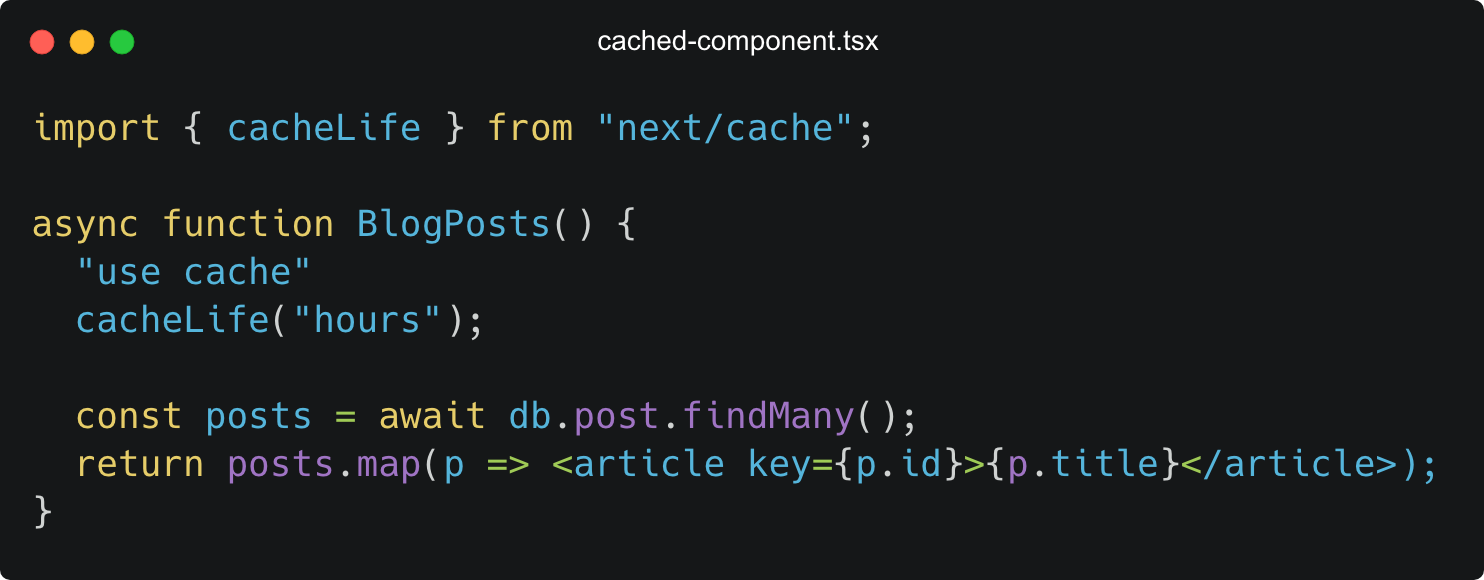
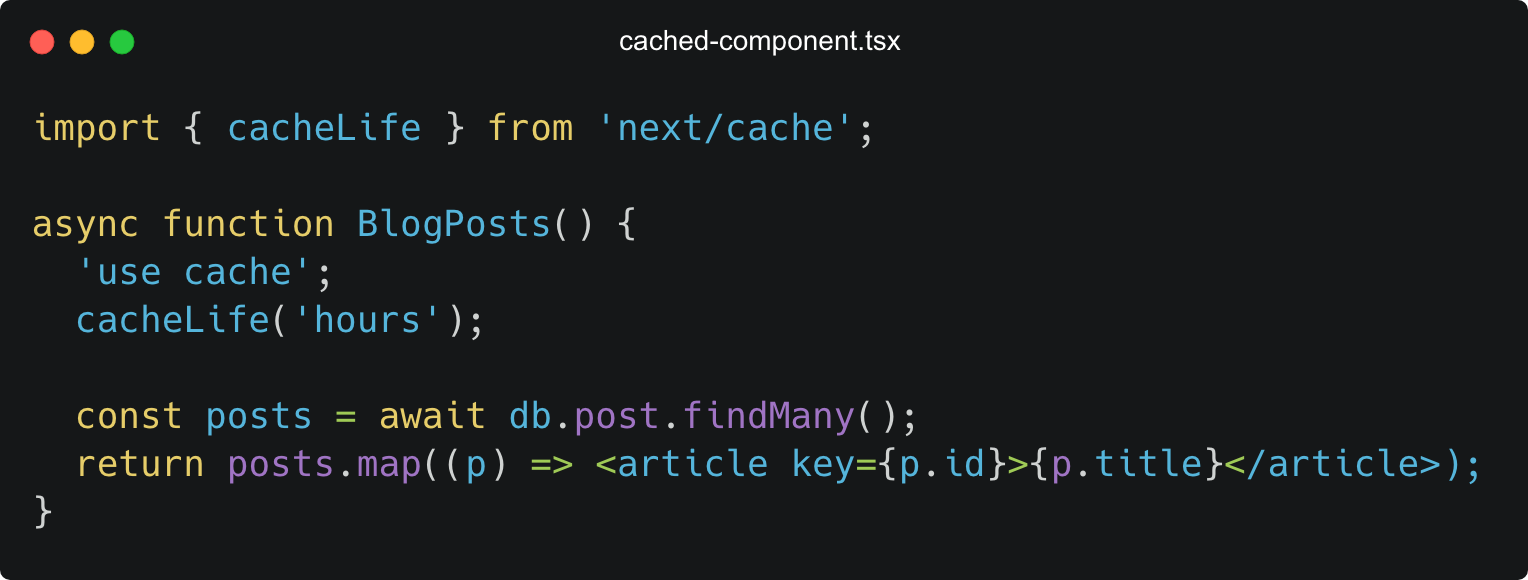
update images

diff --git a/dynamic-route.tsx b/dynamic-route.tsx
@@ -1,12 +1,14 @@
 // app/post/[postId]/page.tsx
-
 import { cookies, headers } from 'next/headers';
 
 // Forces dynamic rendering
 export const dynamic = 'force-dynamic';
 
 // Almost everything in this page forces it to be dynamically rendered
-export default async function Page({ params, searchParams }: PageProps<'/dynamic-route/[postId]'>) {
+export default async function Page({
+  params,
+  searchParams,
+}: PageProps<'/dynamic-route/[postId]'>) {
   const { postId } = await params;
   const { page = '1', sort = 'date' } = await searchParams;
 
@@ -25,7 +27,7 @@ export default async function Page({ params, searchParams }: PageProps<'/dynamic
         Authorization: `Bearer ${token}`,
         'Accept-Language': locale || 'en',
       },
-    }
+    },
   );
 
   const post = await res.json();

diff --git a/proxy.ts b/proxy.ts
@@ -1,14 +1,14 @@
-import { NextResponse } from "next/server";
-import type { NextRequest } from "next/server";
+import { NextResponse } from 'next/server';
+import type { NextRequest } from 'next/server';
 import { getSession } from '@/lib/auth';
 
 export async function proxy(request: NextRequest) {
   const session = await getSession();
-  if (!session) return NextResponse.redirect(new URL("/login", request.url));
+  if (!session) return NextResponse.redirect(new URL('/login', request.url));
 
   return NextResponse.next();
 }
 
 export const config = {
-  matcher: ["/dashboard/:path*", "/settings/:path*"],
+  matcher: ['/dashboard/:path*', '/settings/:path*'],
 };

diff --git a/client-server.tsx b/client-server.tsx
@@ -1,5 +1,5 @@
 // app/blog/ClientWrapper.tsx (Client component)
-"use client";
+'use client';
 
 export function ClientWrapper({ children }: { children: React.ReactNode }) {
   const [visible, setVisible] = useState(true);
@@ -7,8 +7,8 @@ export function ClientWrapper({ children }: { children: React.ReactNode }) {
 }
 
 // app/blog/page.tsx (Server Component)
-import { ClientWrapper } from "./ClientWrapper";
-import { ServerContent } from "./ServerContent";
+import { ClientWrapper } from './ClientWrapper';
+import { ServerContent } from './ServerContent';
 
 export default function BlogPage() {
   return (

diff --git a/client-component.tsx b/client-component.tsx
@@ -3,16 +3,12 @@
 import { FC, useEffect, useState } from 'react';
 
 export const LikeButton: FC = () => {
-  const [likes, setLikes] = useState(0); 
+  const [likes, setLikes] = useState(0);
 
   // All hooks allowed!
   useEffect(() => {
     console.log('Mounted!');
   }, []);
 
-  return (
-    <button onClick={() => setLikes(likes + 1)}>
-      Likes: {likes}
-    </button>
-  );
+  return <button onClick={() => setLikes(likes + 1)}>Likes: {likes}</button>;
 };

diff --git a/server-action.tsx b/server-action.tsx
@@ -1,13 +1,13 @@
 // action.ts
-"use server";
+'use server';
 
 export async function createPost(formData: FormData) {
-  const title = formData.get("title");
+  const title = formData.get('title');
   await db.post.create({ data: { title } });
 }
 
 // page.tsx
-import { createPost } from "./action";
+import { createPost } from './action';
 
 export default function Page() {
   return (

diff --git a/cached-component.tsx b/cached-component.tsx
@@ -1,9 +1,9 @@
-import { cacheLife } from "next/cache";
+import { cacheLife } from 'next/cache';
 
 async function BlogPosts() {
-  "use cache"
-  cacheLife("hours");
+  'use cache';
+  cacheLife('hours');
 
   const posts = await db.post.findMany();
-  return posts.map(p => <article key={p.id}>{p.title}</article>);
+  return posts.map((p) => <article key={p.id}>{p.title}</article>);
 }

diff --git a/server-client.tsx b/server-client.tsx
@@ -1,7 +1,7 @@
 // page.tsx (Server Component)
-import { LikeButton } from "./LikeButton";
+import { LikeButton } from './LikeButton';
 
 export default async function ServerPage() {
-  const post = await db.post.findUnique({ where: { id: "1" } });
+  const post = await db.post.findUnique({ where: { id: '1' } });
   return <LikeButton postId={post.id} title={post.title} />;
 }

diff --git a/server-component.tsx b/server-component.tsx
@@ -2,5 +2,5 @@ import type { FC } from 'react';
 
 export const LikeButton: FC = () => {
   // No hooks allowed here! Everything is static.
-  return <button className="bordered">Likes: 0</button>;
+  return <button>Likes: 0</button>;
 };

diff --git a/route-handlers.ts b/route-handlers.ts
@@ -1,5 +1,5 @@
 // app/api/todos/route.ts
-import { NextRequest, NextResponse } from "next/server";
+import { NextRequest, NextResponse } from 'next/server';
 
 export async function GET() {
   const todos = await db.todo.findMany();

diff --git a/loading-state.tsx b/loading-state.tsx
@@ -1,4 +1,4 @@
 // blog-post/loading.tsx
 export default async function Loading() {
-  return <div className="animate-pulse">Custom loading page...</div>;
+  return <div>Custom loading page...</div>;
 }

diff --git a/not-found-state.tsx b/not-found-state.tsx
@@ -1,6 +1,4 @@
 // blog-post/not-found.tsx
 export default async function NotFound() {
-  return (
-     <div>A fully custom 404 page</div>
-  );
+  return <div>A fully custom 404 page</div>;
 }

diff --git a/extended-fetch-api.ts b/extended-fetch-api.ts
@@ -3,4 +3,4 @@ const response = await fetch(url, {
 });
 
 // After data mutation
-revalidateTag("some-cache-tag")
+revalidateTag('some-cache-tag');
